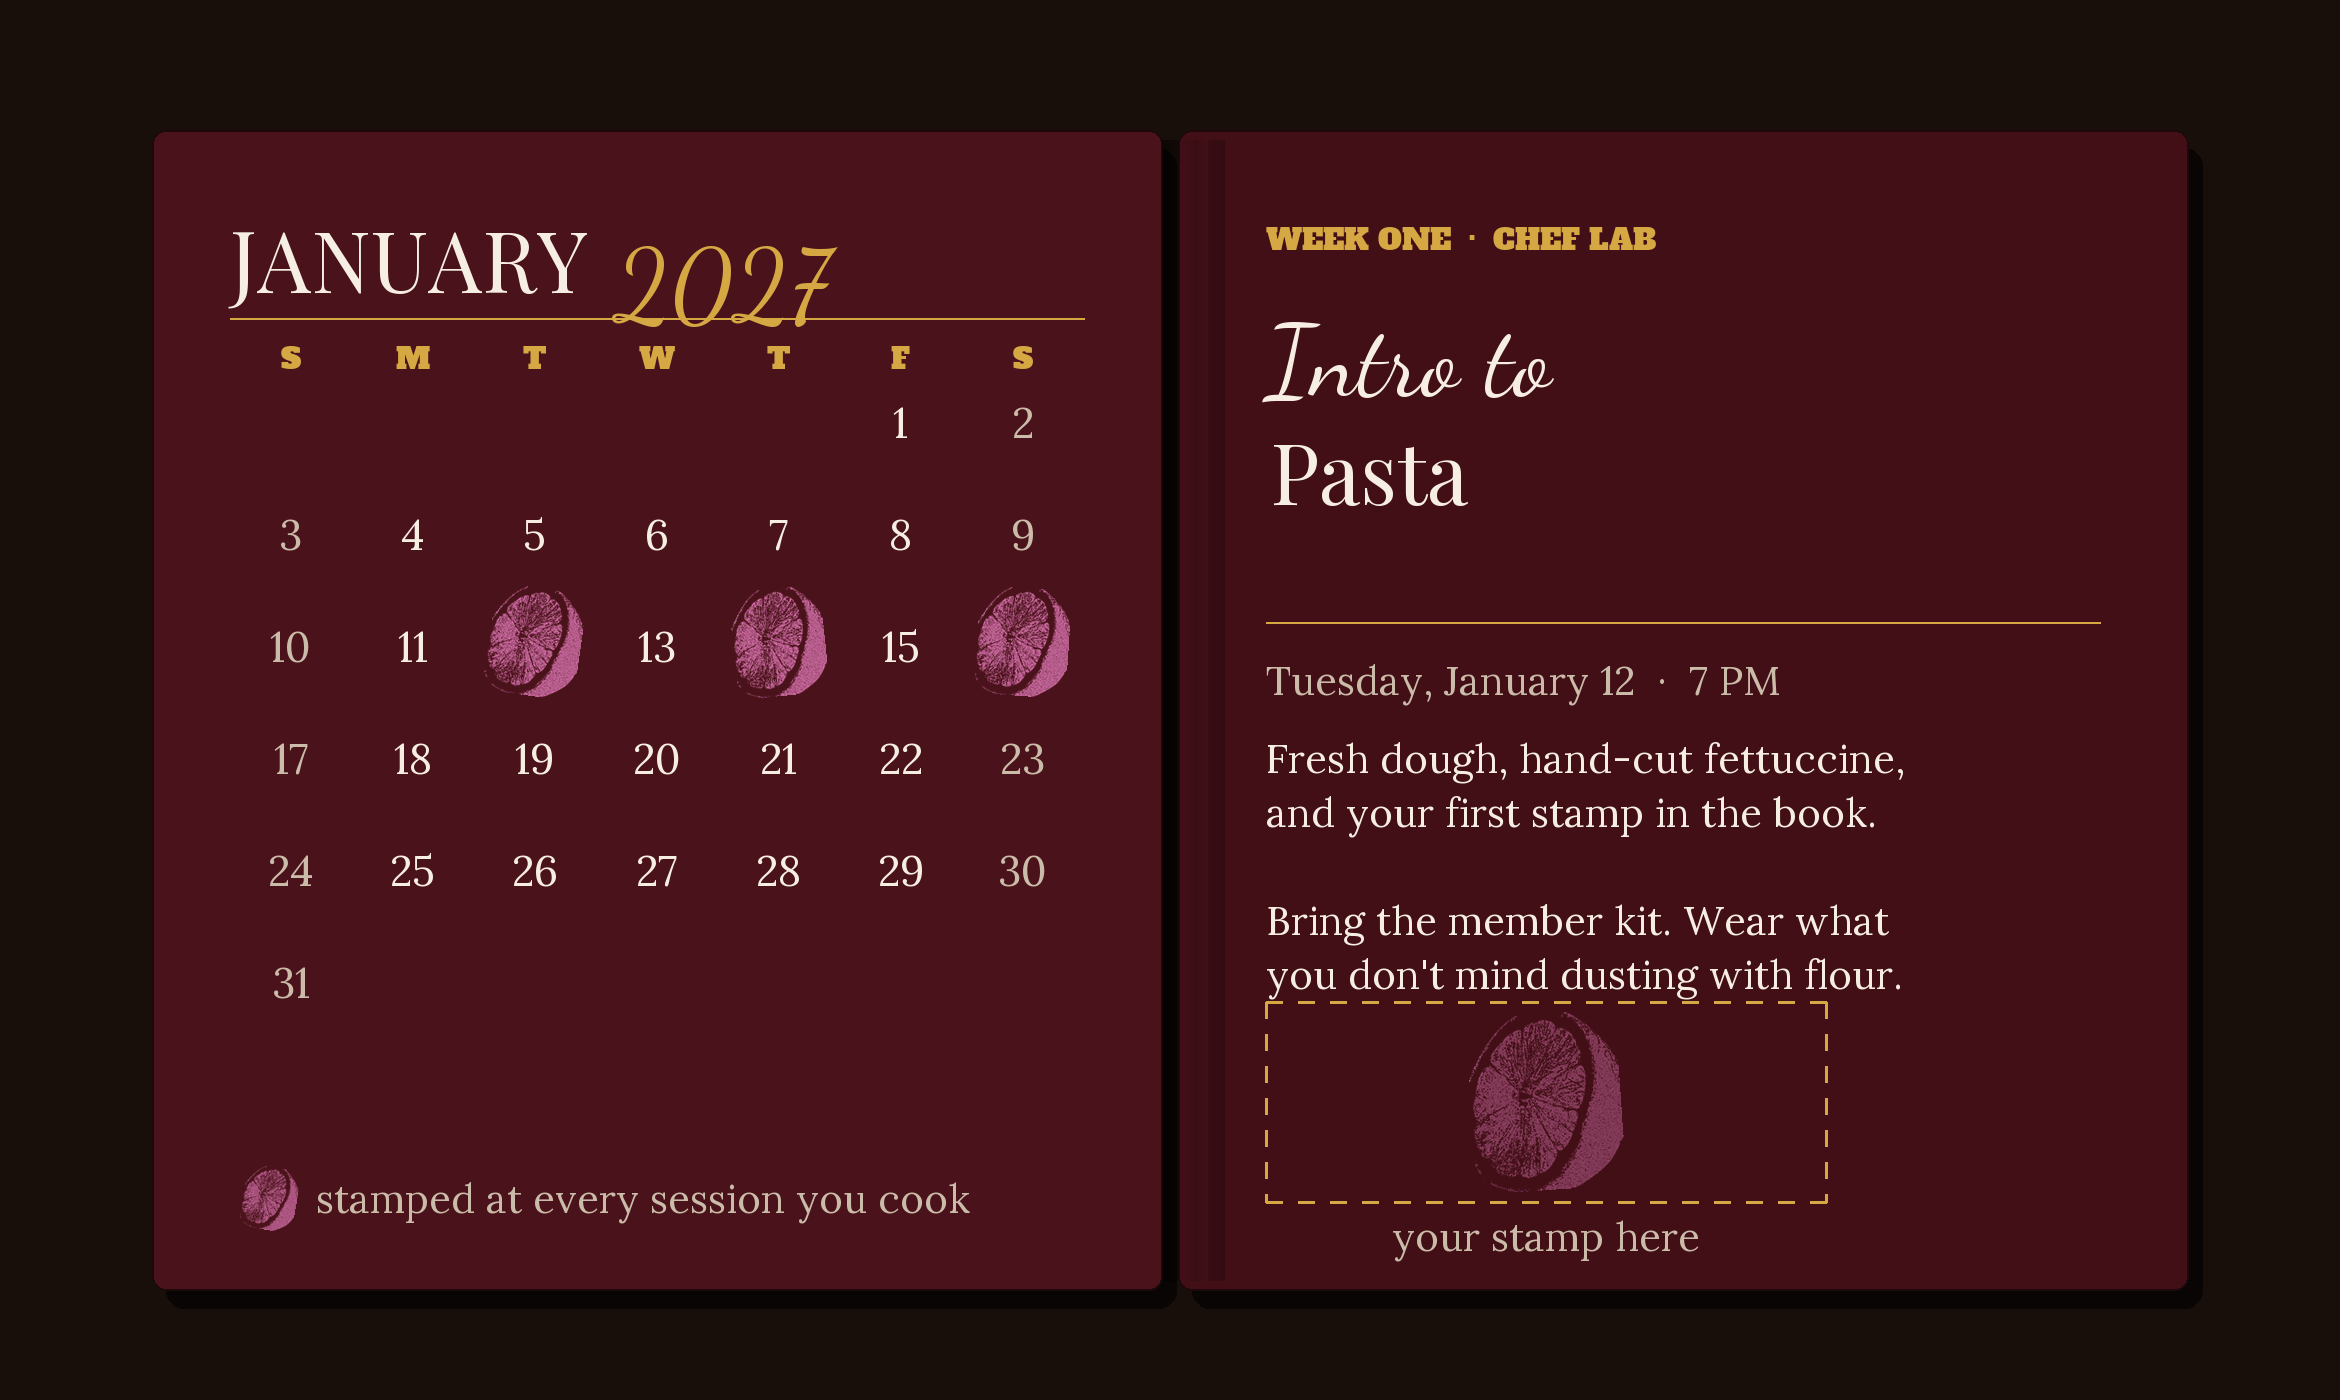
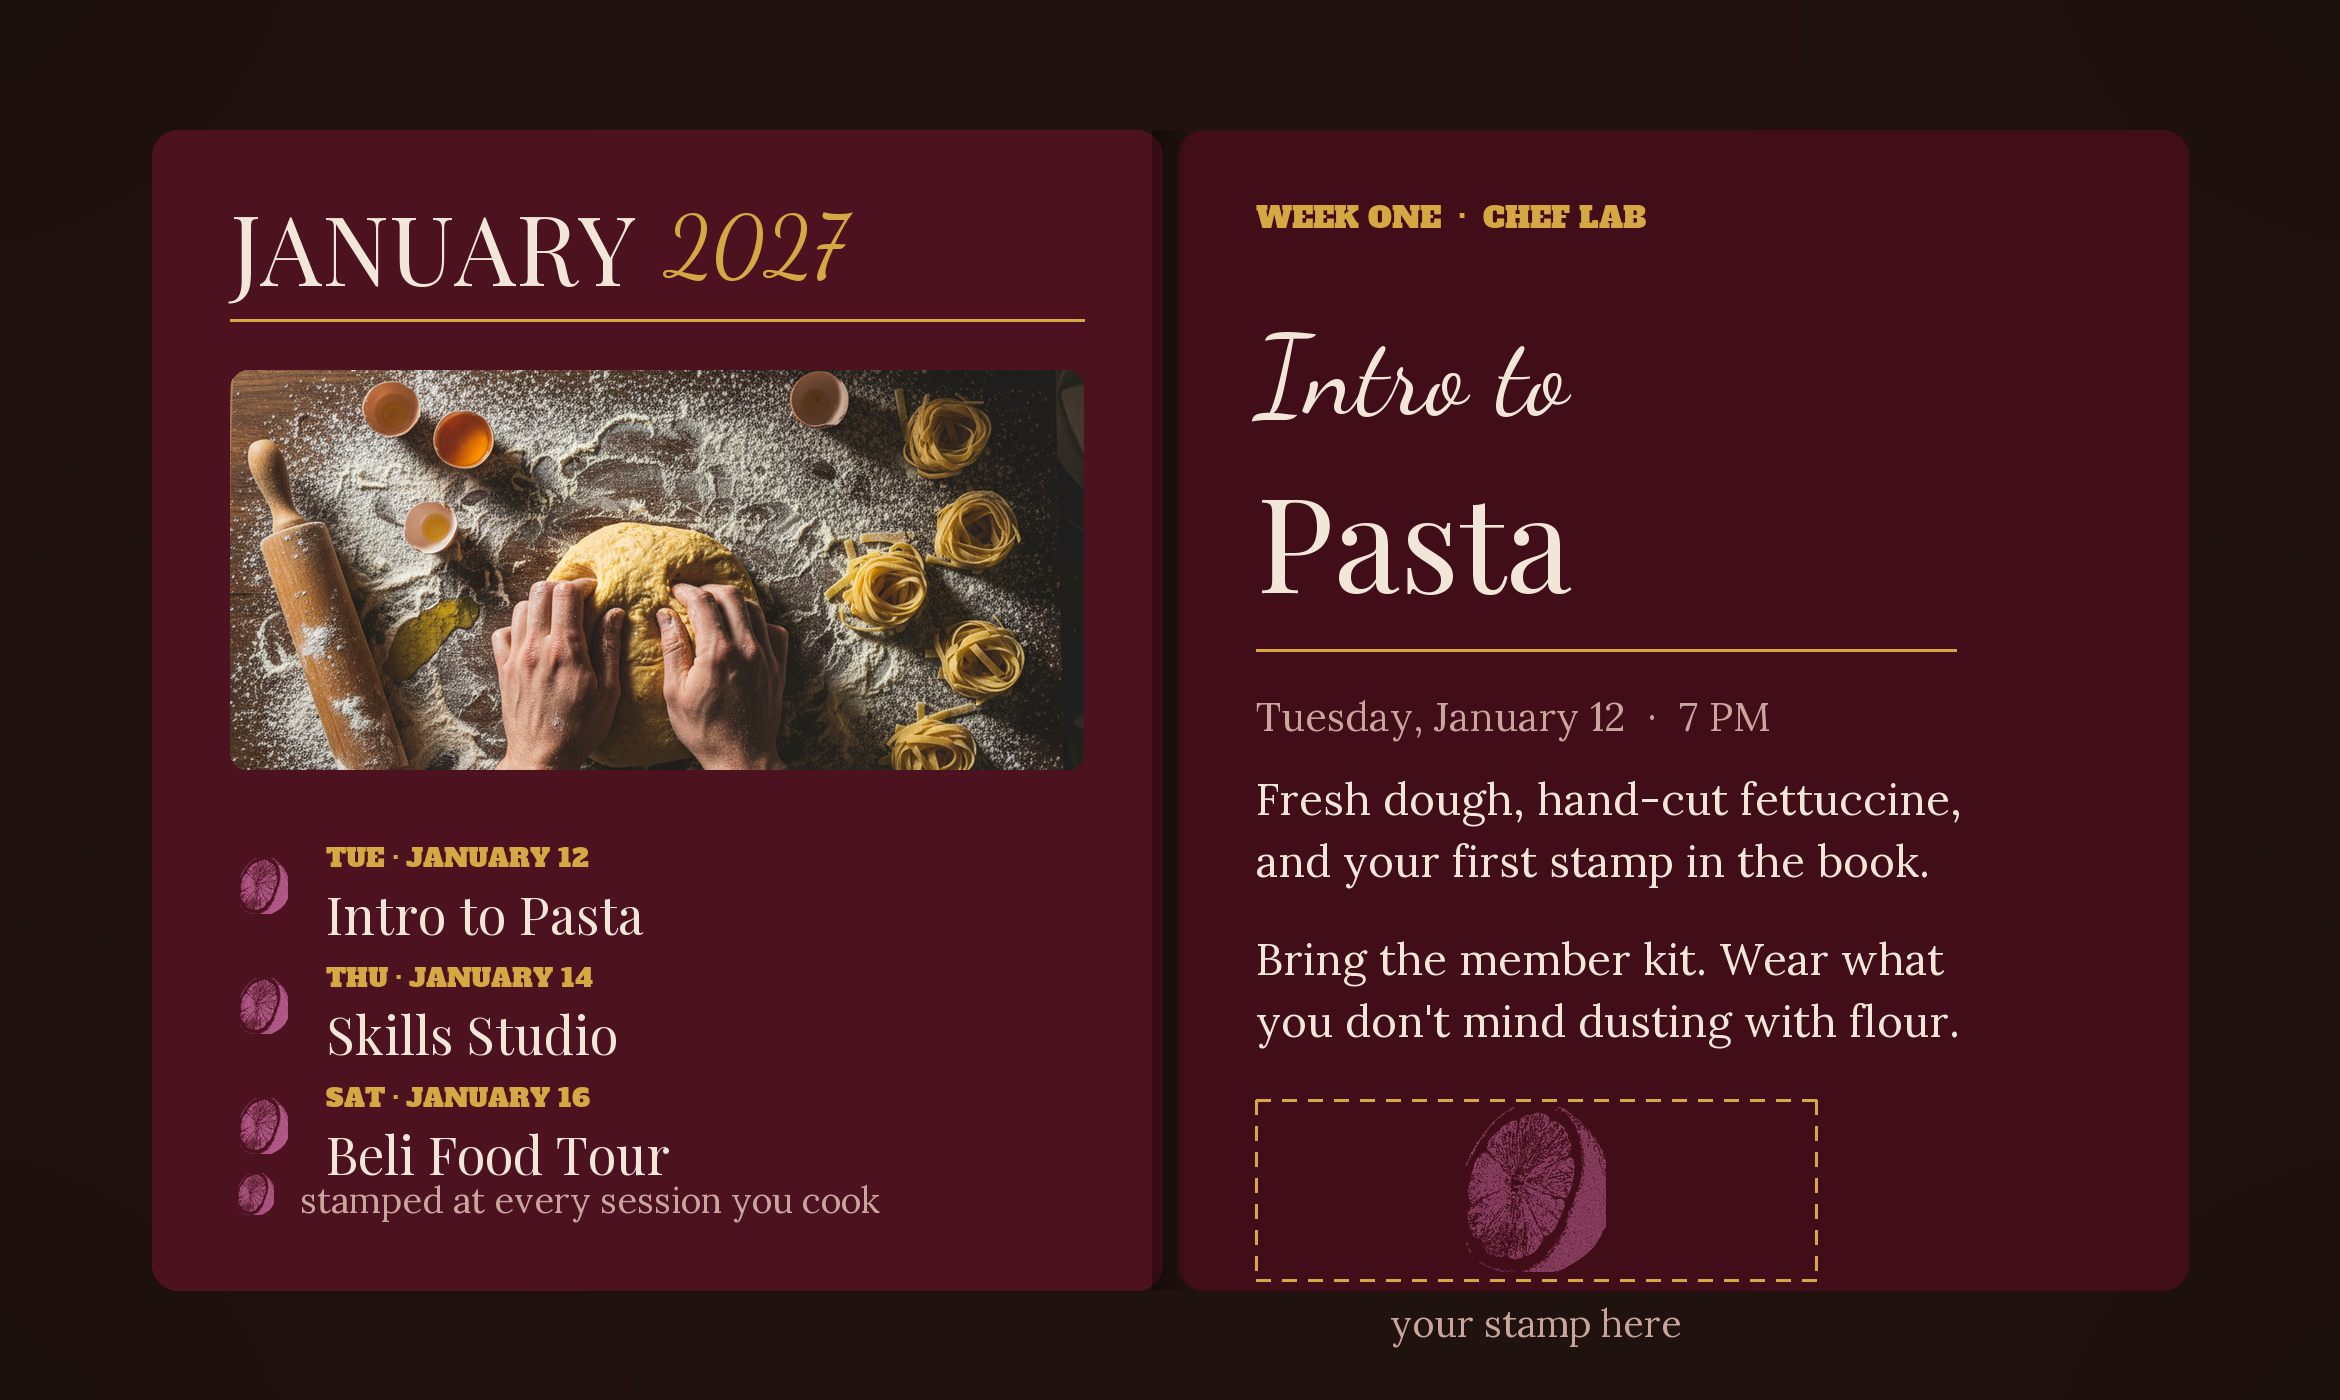
Pamphlet calendar page: pasta-making photo, January session list, tap-for-details

diff --git a/index.html b/index.html
@@ -296,10 +296,10 @@ a.spot-seat:hover .avatar { transform: scale(1.04); }
 .perks strong { color: var(--cream); }
 .pamphlet { margin: 1.6rem 0 0; max-width: 62rem; }
 .pamphlet { position: relative; }
-.cal-hot { position: absolute; transform: translate(-50%,-50%); width: 10.5%; aspect-ratio: 1; border-radius: 50%; background: transparent; border: 0; padding: 0; cursor: pointer; }
+.cal-hot { position: absolute; width: 26%; height: 6.6%; border-radius: 14px; background: transparent; border: 0; padding: 0; cursor: pointer; }
 .cal-hot::after { content: ""; position: absolute; inset: 12%; border-radius: 50%; border: 2px solid transparent; transition: border-color .2s; }
 .cal-hot:hover::after, .cal-hot:focus-visible::after { border-color: rgba(246,238,226,.85); }
-.cal-pop { position: absolute; transform: translateX(-50%); background: #2a1013; border: 1px solid var(--gold); border-radius: .9rem; padding: .9rem 1.1rem 1rem; width: min(17rem, 60%); z-index: 6; box-shadow: 0 .8rem 2rem rgba(0,0,0,.55); }
+.cal-pop { position: absolute; transform: translate(-50%,-50%); background: #2a1013; border: 1px solid var(--gold); border-radius: .9rem; padding: .9rem 1.1rem 1rem; width: min(17rem, 60%); z-index: 6; box-shadow: 0 .8rem 2rem rgba(0,0,0,.55); }
 .cal-pop h4 { margin: 0; color: var(--gold); font-size: 1rem; }
 .cal-pop .when { display: block; margin: .15rem 0 .45rem; color: var(--muted); font-size: .85rem; }
 .cal-pop p { margin: 0; color: var(--cream); font-size: .92rem; line-height: 1.45; }
@@ -958,10 +958,10 @@ html, body { overflow-x: hidden; overflow-x: clip; }
         </ul>
       </div>
       <figure class="pamphlet">
-        <img src="pamphlet_mockup.png" alt="Inside the member booklet: the January stamp calendar page and the Intro to Pasta Chef Lab page" loading="lazy">
-        <button type="button" class="cal-hot" style="left:22.9%;top:46.1%" data-day="12" aria-label="Tuesday, January 12, Chef Lab"></button>
-        <button type="button" class="cal-hot" style="left:33.3%;top:46.1%" data-day="14" aria-label="Thursday, January 14, Skills Studio"></button>
-        <button type="button" class="cal-hot" style="left:43.7%;top:46.1%" data-day="16" aria-label="Saturday, January 16, Beli Food Tour"></button>
+        <img src="pamphlet_mockup.png" alt="Inside the member booklet: January with the Intro to Pasta week, and the Intro to Pasta Chef Lab page" loading="lazy">
+        <button type="button" class="cal-hot" style="left:8%;top:63.6%" data-day="12" aria-label="Tuesday, January 12, Intro to Pasta"></button>
+        <button type="button" class="cal-hot" style="left:8%;top:72.1%" data-day="14" aria-label="Thursday, January 14, Skills Studio"></button>
+        <button type="button" class="cal-hot" style="left:8%;top:80.7%" data-day="16" aria-label="Saturday, January 16, Beli Food Tour"></button>
         <div class="cal-pop" id="cal-pop" hidden></div>
         <figcaption>A peek inside the member booklet: tap a stamped day to see what that session is.</figcaption>
       </figure>
@@ -1386,7 +1386,7 @@ html, body { overflow-x: hidden; overflow-x: clip; }
 (function () {
   var pop = document.getElementById("cal-pop");
   var DAYS = {
-    "12": { t: "Chef Lab", when: "Tuesday, Jan 12 · 7 PM", p: "Hands-on cooking in small groups, taught by our Head Chefs. First up: knife skills." },
+    "12": { t: "Chef Lab · Intro to Pasta", when: "Tuesday, Jan 12 · 7 PM", p: "Hands-on cooking in small groups, taught by our Head Chefs. Fresh dough, hand-cut fettuccine, your first stamp in the book." },
     "14": { t: "Skills Studio", when: "Thursday, Jan 14 · 7 PM", p: "Demonstrations and recipe workshops on the fundamentals. First up: orientation." },
     "16": { t: "Beli Food Tour", when: "Saturday, Jan 16 · time TBA", p: "Restaurant touring across LA, logged and ranked together on Beli. First tour of the semester." }
   };
@@ -1397,8 +1397,8 @@ html, body { overflow-x: hidden; overflow-x: clip; }
       var d = DAYS[b.dataset.day];
       if (open === b.dataset.day) { pop.hidden = true; open = null; return; }
       pop.innerHTML = "<h4>" + d.t + "</h4><span class=\"when\">" + d.when + "</span><p>" + d.p + "</p>";
-      pop.style.left = b.style.left;
-      pop.style.top = "calc(" + b.style.top + " + 7.5%)";
+      pop.style.left = "40%";
+      pop.style.top = b.style.top;
       pop.hidden = false; open = b.dataset.day;
     });
   });
